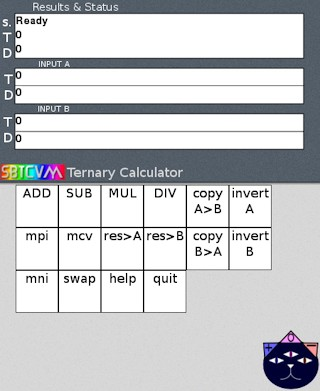
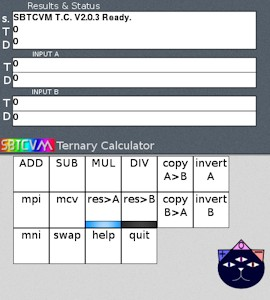
add version number to calc.py's initial status, update calc.py's help

diff --git a/calc.py b/calc.py
@@ -111,7 +111,7 @@ DB=0
 TR="0"
 DR=0
 #inital status
-STAT="Ready"
+STAT="SBTCVM T.C. V2.0.3 Ready."
 #limits the mpi, mcv, and mni calculations. too high numbers can take WAYYY too long
 mcalclimit=36
 #result copy locks
